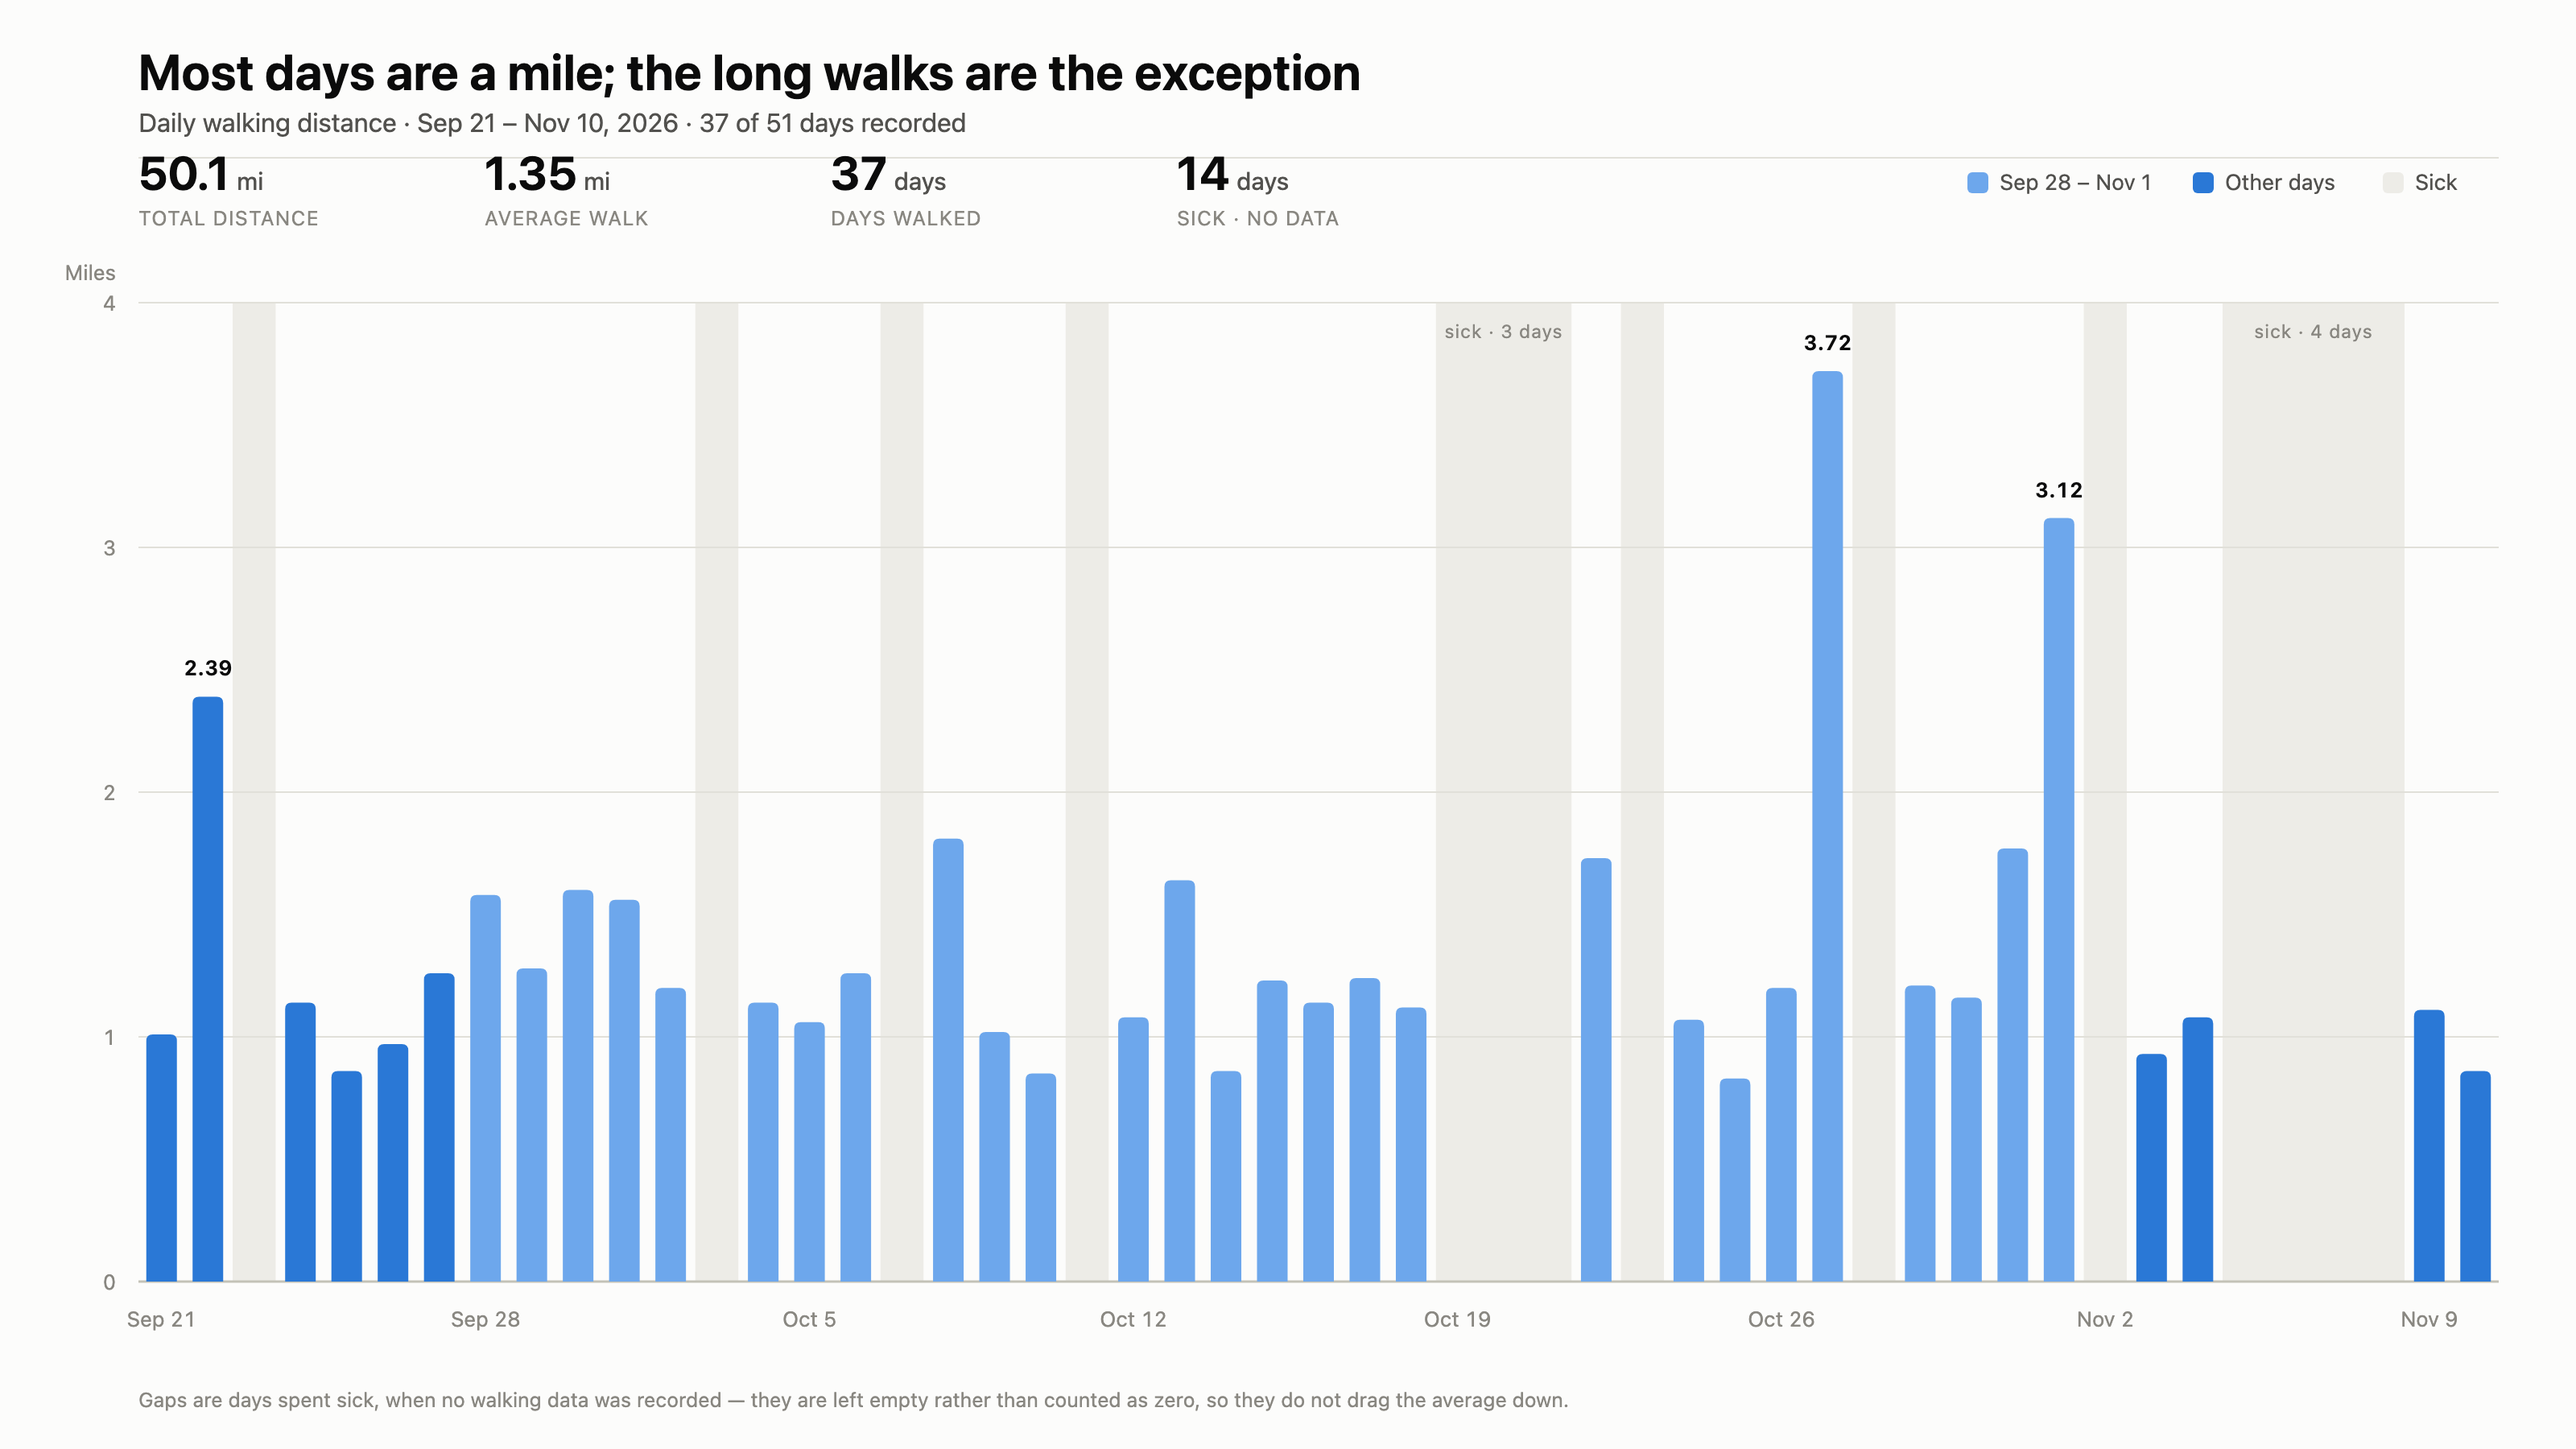
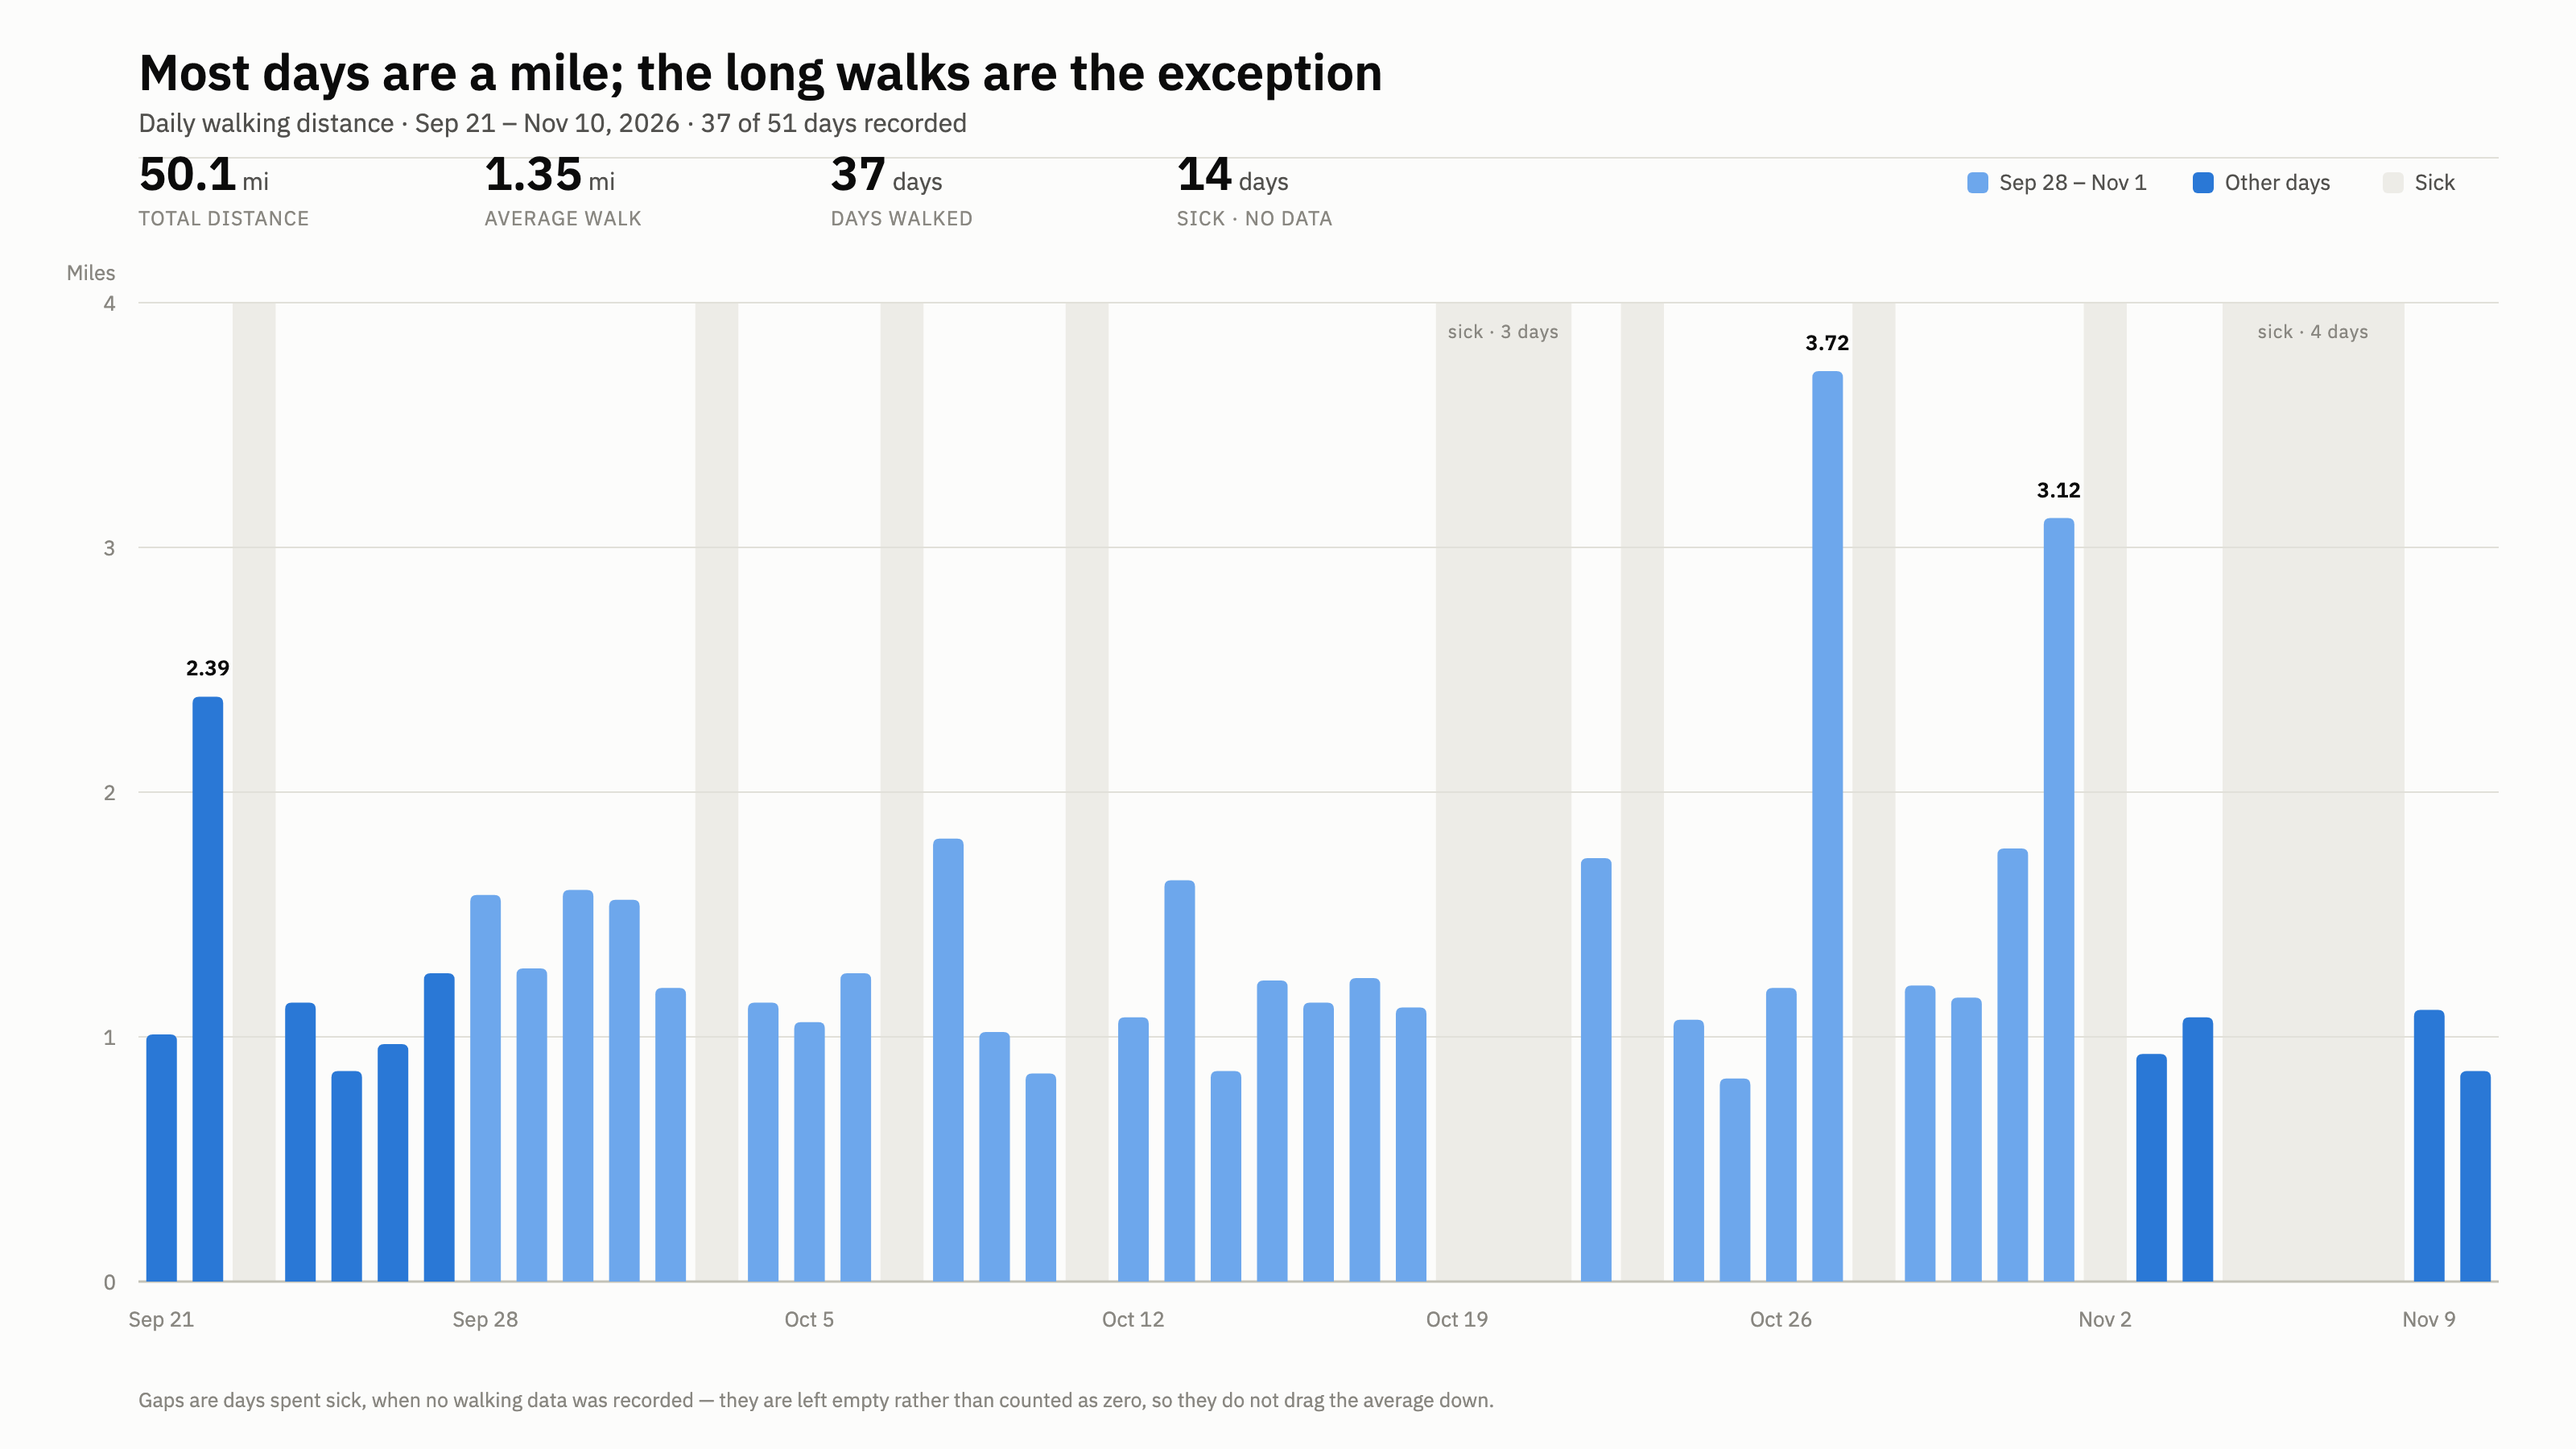
Switch typeface to IBM Plex Sans
Loaded from Google Fonts with a system-sans fallback. Weights remapped
to the family's available steps (650 -> 600, 450 -> 400).

diff --git a/index.html b/index.html
@@ -2,6 +2,7 @@
 <meta name="viewport" content="width=device-width,initial-scale=1">
 <title>Daily Walking Distance · Sep 21 – Nov 10, 2026</title>
 <meta name="description" content="Daily walking distance, 21 September to 10 November 2026.">
+<link rel="preconnect" href="https://fonts.googleapis.com"><link rel="preconnect" href="https://fonts.gstatic.com" crossorigin><link href="https://fonts.googleapis.com/css2?family=IBM+Plex+Sans:wght@400;500;600;700&display=swap" rel="stylesheet">
 <style>
 :root{color-scheme:light dark}
 .viz{--surface-1:#fcfcfb;--page:#f9f9f7;--text-primary:#0b0b0b;--text-secondary:#52514e;--muted:#898781;
@@ -12,18 +13,18 @@
 :root[data-theme="dark"] .viz{--surface-1:#1a1a19;--page:#0d0d0d;--text-primary:#fff;--text-secondary:#c3c2b7;--muted:#898781;
  --grid:#2c2c2a;--axis:#383835;--bar-hl:#9ec5f4;--bar-other:#3987e5;--band:#2c2c2a;--border:rgba(255,255,255,.10)}
 *{margin:0;padding:0;box-sizing:border-box}
-body{font-family:system-ui,-apple-system,"Segoe UI",sans-serif;-webkit-font-smoothing:antialiased}
+body{font-family:'IBM Plex Sans',system-ui,-apple-system,"Segoe UI",sans-serif;-webkit-font-smoothing:antialiased}
 .viz{background:var(--page);color:var(--text-primary);min-height:100vh;padding:40px 24px 72px}
 .wrap{max-width:1180px;margin:0 auto}
 header{display:flex;justify-content:space-between;align-items:flex-start;gap:24px;flex-wrap:wrap}
-h1{font-size:clamp(22px,3.4vw,31px);font-weight:650;letter-spacing:-.01em;line-height:1.2}
+h1{font-size:clamp(22px,3.4vw,31px);font-weight:600;letter-spacing:-.01em;line-height:1.2}
 .sub{font-size:15px;color:var(--text-secondary);margin-top:8px}
 button{font:inherit;font-size:13px;color:var(--text-secondary);background:var(--surface-1);
  border:1px solid var(--border);border-radius:100px;padding:7px 15px;cursor:pointer}
 button:hover{color:var(--text-primary)}
 .stats{display:flex;flex-wrap:wrap;gap:40px;margin:26px 0 8px;padding-top:20px;border-top:1px solid var(--grid)}
-.sv{font-size:29px;font-weight:650;line-height:1.1}
-.su{font-size:15px;font-weight:450;color:var(--text-secondary)}
+.sv{font-size:29px;font-weight:600;line-height:1.1}
+.su{font-size:15px;font-weight:400;color:var(--text-secondary)}
 .sl{font-size:12.5px;color:var(--muted);letter-spacing:.05em;text-transform:uppercase;margin-top:5px}
 .legend{display:flex;flex-wrap:wrap;gap:20px;margin:22px 0 4px;font-size:13.5px;color:var(--text-secondary)}
 .legend span{display:flex;align-items:center;gap:8px}
@@ -31,7 +32,7 @@ button:hover{color:var(--text-primary)}
 .card{position:relative;background:var(--surface-1);border:1px solid var(--border);border-radius:14px;margin-top:10px;overflow-x:auto}
 svg{display:block;width:100%;min-width:760px;height:auto}
 .tick{font-size:13px;fill:var(--muted)}
-.dlabel{font-size:13px;font-weight:650;fill:var(--text-primary)}
+.dlabel{font-size:13px;font-weight:600;fill:var(--text-primary)}
 .bandlab{font-size:11.5px;fill:var(--muted);letter-spacing:.04em}
 .hit{cursor:crosshair}
 .hit:hover{fill:color-mix(in srgb,var(--text-primary) 5%,transparent)}
